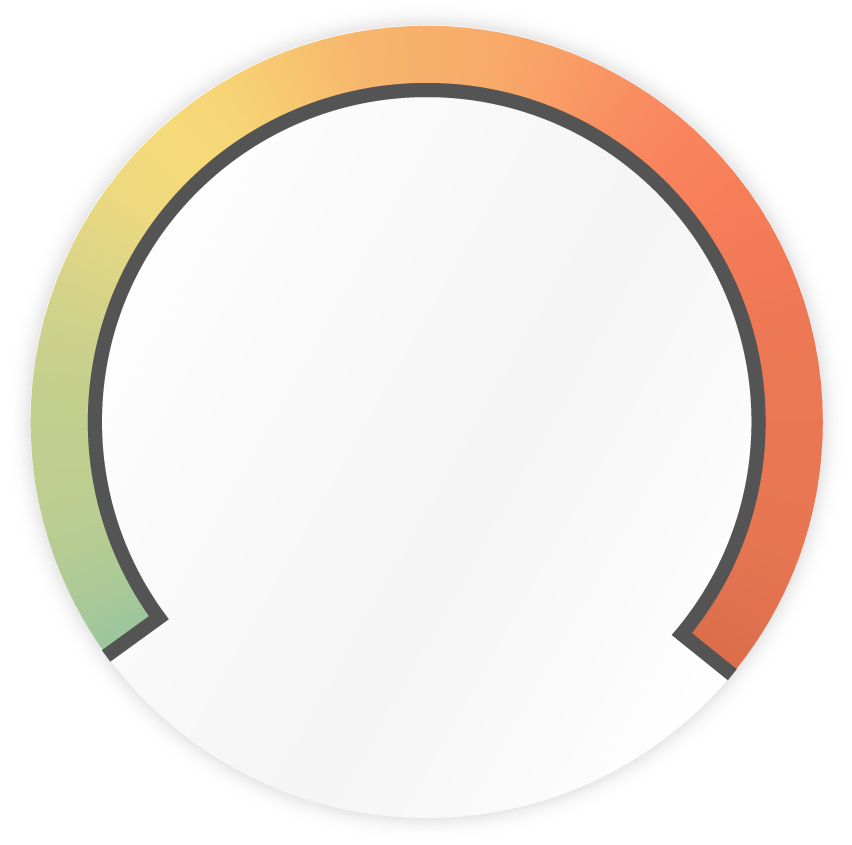
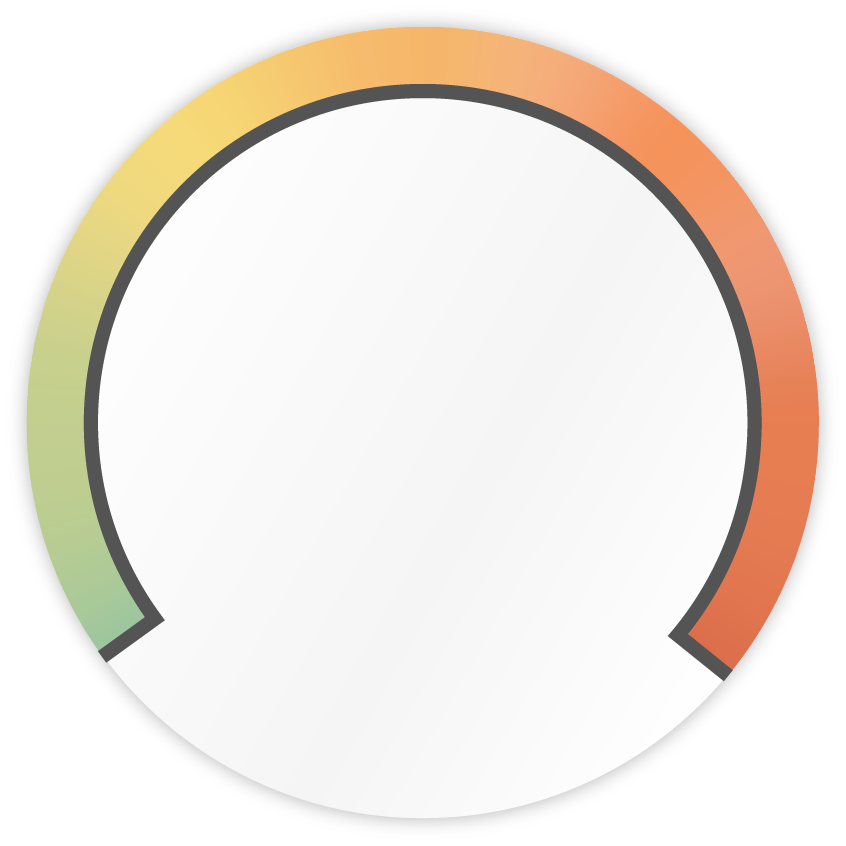
updated popover to take up almsot full height and width

diff --git a/src/app/home/components/popover/popover.component.html b/src/app/home/components/popover/popover.component.html
@@ -1,23 +1,43 @@
-<p>I am a special popover
-    and m Ipsum is simply dummy text of the printing and typesetting industry. Lorem Ipsum has been the industry's standard dummy text ever since the 1500s, when an unknown printer took a galley of type and scrambled it to make a type specimen book. It has survived not only five centuries, but also the leap into electronic typesetting, remaining essentially unchanged. It was popularised in the 1960s with the release of Letraset sheets containing Lorem Ipsum passages, and more recently with desktop publishing software like Aldus PageMaker including versions of Lorem Ipsum.
-    Why do we use it?
-    
-    It is a long established fact that a reader will be distracted by the readable content of a page when looking at its layout. The point of using Lorem Ipsum is that it has a more-or-less normal distribution of letters, as opposed to using 'Content here, content here', making it look like readable English. Many desktop publishing packages and web page editors now use Lorem Ipsum as their default model text, and a search for 'lorem ipsum' will uncover many web sites still in their infancy. Various versions have evolved over the years, sometimes by accident, sometimes on purpose (injected humour and the like).
-    
-    Where does it come from?
-    
-    Contrary to popular belief, Lorem Ipsum is not simply random text. It has roots in a piece of classical Latin literature from 45 BC, making it over 2000 years old. Richard McClintock, a Latin professor at Hampden-Sydney College in Virginia, looked up one of the more obscure Latin words, consectetur, from a Lorem Ipsum passage, and going through the cites of the word in classical literature, discovered the undoubtable source. Lorem Ipsum comes from sections 1.10.32 and 1.10.33 of "de Finibus Bonorum et Malorum" (The Extremes of Good and Evil) by Cicero, written in 45 BC. This book is a treatise on the theory of ethics, very popular during the Renaissance. The first line of Lorem Ipsum, "Lorem ipsum dolor sit amet..", comes from a line in section 1.10.32.
-    
+<div>
+  <p id="popover_title"> PM2.5 Fine Particles </p>
+
+</div>
+<!-- <p id="popover_text">
+    I am a special popover and m Ipsum is simply dummy text of the printing and typesetting industry. Lorem Ipsum has been the industry's standard dummy text ever since the 1500s, when an unknown printer took a galley of type and scrambled it to make a type specimen book. It has survived not only five centuries, but also the leap into electronic typesetting, remaining essentially unchanged. It was popularised in the 1960s with the release of Letraset sheets containing Lorem Ipsum passages, and more recently with desktop publishing software like Aldus PageMaker including versions of Lorem Ipsum. Why do we use it? It is a long established fact that a reader will be distracted by the readable content of a page when looking at its layout. The point of using Lorem Ipsum is that it has a more-or-less normal distribution of letters, as opposed to using 'Content here, content here', making it look like readable English. Many desktop publishing packages and web page editors now use Lorem Ipsum as their default model text, and a search for 'lorem ipsum' will uncover many web sites still in their infancy. Various versions have evolved over the years, sometimes by accident, sometimes on purpose (injected humour and the like). Where does it come from? Contrary to popular belief, Lorem Ipsum is not simply random text. It has roots in a piece of classical Latin literature from 45 BC, making it over 2000 years old. Richard McClintock, a Latin professor at Hampden-Sydney College in Virginia, looked up one of the more obscure Latin words, consectetur, from a Lorem Ipsum passage, and going through the cites of the word in classical literature, discovered the undoubtable source. Lorem Ipsum comes from sections 1.10.32 and 1.10.33 of "de Finibus Bonorum et Malorum" (The Extremes of Good and Evil) by Cicero, written in 45 BC. This book is a treatise on the theory of ethics, very popular during the Renaissance. The first line of Lorem Ipsum, "Lorem ipsum dolor sit amet..", comes from a line in section 1.10.32.
     The standard chunk of Lorem Ipsum used since the 1500s is reproduced below for those interested. Sections 1.10.32 and 1.10.33 from "de Finibus Bonorum et Malorum" by Cicero are also reproduced in their exact original form, accompanied by English versions from the 1914 translation by H. Rackham.
-    m Ipsum is simply dummy text of the printing and typesetting industry. Lorem Ipsum has been the industry's standard dummy text ever since the 1500s, when an unknown printer took a galley of type and scrambled it to make a type specimen book. It has survived not only five centuries, but also the leap into electronic typesetting, remaining essentially unchanged. It was popularised in the 1960s with the release of Letraset sheets containing Lorem Ipsum passages, and more recently with desktop publishing software like Aldus PageMaker including versions of Lorem Ipsum.
-Why do we use it?
+    m Ipsum is simply dummy text of the printing and typesetting industry. Lorem Ipsum has been the industry's standard dummy text ever since the 1500s, when an unknown printer took a galley of type and scrambled it to make a type specimen book. It has survived not only five centuries, but also the leap into electronic typesetting, remaining essentially unchanged. It was popularised in the 1960s with the release of Letraset sheets containing Lorem Ipsum passages, and more recently with desktop publishing software like Aldus PageMaker including versions of Lorem Ipsum. Why do we use it? It is a long established fact that a reader will be distracted by the readable content of a page when looking at its layout. The point of using Lorem Ipsum is that it has a more-or-less normal distribution of letters, as opposed to using 'Content here, content here', making it look like readable English. Many desktop publishing packages and web page editors now use Lorem Ipsum as their default model text, and a search for 'lorem ipsum' will uncover many web sites still in their infancy. Various versions have evolved over the years, sometimes by accident, sometimes on purpose (injected humour and the like). Where does it come from? Contrary to popular belief, Lorem Ipsum is not simply random text. It has roots in a piece of classical Latin literature from 45 BC, making it over 2000 years old. Richard McClintock, a Latin professor at Hampden-Sydney College in Virginia, looked up one of the more obscure Latin words, consectetur, from a Lorem Ipsum passage, and going through the cites of the word in classical literature, discovered the undoubtable source. Lorem Ipsum comes from sections 1.10.32 and 1.10.33 of "de Finibus Bonorum et Malorum" (The Extremes of Good and Evil) by Cicero, written in 45 BC. This book is a treatise on the theory of ethics, very popular during the Renaissance. The first line of Lorem Ipsum, "Lorem ipsum dolor sit amet..", comes from a line in section 1.10.32. The standard chunk of Lorem Ipsum used since the 1500s is reproduced below for those interested. Sections 1.10.32 and 1.10.33 from "de Finibus Bonorum et Malorum" by Cicero are also reproduced in their exact original form, accompanied by English versions from the 1914 translation by H. Rackham.
+</p> -->
 
-It is a long established fact that a reader will be distracted by the readable content of a page when looking at its layout. The point of using Lorem Ipsum is that it has a more-or-less normal distribution of letters, as opposed to using 'Content here, content here', making it look like readable English. Many desktop publishing packages and web page editors now use Lorem Ipsum as their default model text, and a search for 'lorem ipsum' will uncover many web sites still in their infancy. Various versions have evolved over the years, sometimes by accident, sometimes on purpose (injected humour and the like).
 
-Where does it come from?
+<ion-slides pager="true" [options]="slideOpts">
+    <ion-slide>
+        <div class="slide-wrapper">
+                <h1>Slide 1</h1>
+                <p>Hello there I am not your father</p>
 
-Contrary to popular belief, Lorem Ipsum is not simply random text. It has roots in a piece of classical Latin literature from 45 BC, making it over 2000 years old. Richard McClintock, a Latin professor at Hampden-Sydney College in Virginia, looked up one of the more obscure Latin words, consectetur, from a Lorem Ipsum passage, and going through the cites of the word in classical literature, discovered the undoubtable source. Lorem Ipsum comes from sections 1.10.32 and 1.10.33 of "de Finibus Bonorum et Malorum" (The Extremes of Good and Evil) by Cicero, written in 45 BC. This book is a treatise on the theory of ethics, very popular during the Renaissance. The first line of Lorem Ipsum, "Lorem ipsum dolor sit amet..", comes from a line in section 1.10.32.
+        </div>
+    </ion-slide>
+    <ion-slide>
+        <div>
+      <h1>Slide 2</h1>
+      <p>Hello there I am not your father</p>
+      <p>Hello there I am not your father</p>
 
-The standard chunk of Lorem Ipsum used since the 1500s is reproduced below for those interested. Sections 1.10.32 and 1.10.33 from "de Finibus Bonorum et Malorum" by Cicero are also reproduced in their exact original form, accompanied by English versions from the 1914 translation by H. Rackham.
+      <p>Hello there I am not your father</p>
+
+      <p>Hello there I am not your father</p>
+
+      <p>Hello there I am not your father</p>
+
+      <p>Hello there I am not your father</p>
+    </div>
+      
+    </ion-slide>
+    <ion-slide>
+            <div>
+                    <h1>Slide 1</h1>
+                    <p>Hello there I am not your father</p>
     
-</p>
+            </div>
+    </ion-slide>
+  </ion-slides>

diff --git a/src/app/home/components/linechart/linechart.component.ts b/src/app/home/components/linechart/linechart.component.ts
@@ -90,15 +90,15 @@ export class LineChart implements OnInit {
             const scale = 250/max;
             gradient.addColorStop(0, '#9bc69f');
             gradient.addColorStop(.25* scale, '#f6db7a');
-            gradient.addColorStop(.50* scale, '#fa845d');
+            gradient.addColorStop(.50* scale, '#F5935B');
             gradient.addColorStop(.75* scale, '#dc6e4c');
-            gradient.addColorStop(1*scale, '#ba7fc3');
+            gradient.addColorStop(1*scale, '#BA7FC3');
         } else {
             gradient.addColorStop(0, '#9bc69f'); // 0 - 50
             gradient.addColorStop(.25, '#f6db7a'); // 50 - 100
-            gradient.addColorStop(.50, '#fa845d'); // 100 - 150
+            gradient.addColorStop(.50, '#F5935B'); // 100 - 150
             gradient.addColorStop(.75, '#dc6e4c'); // 150 - 200
-            gradient.addColorStop(1, '#ba7fc3'); // 200
+            gradient.addColorStop(1, '#BA7FC3'); // 200
         }
         
         ctx.save();

diff --git a/src/app/home/components/pollutantList/pollutantList.component.ts b/src/app/home/components/pollutantList/pollutantList.component.ts
@@ -13,19 +13,27 @@ import { PollutantItem } from '../pollutantItem/pollutantItem.component';
 export class PollutantList {
     PM25 = {
       label:"PM2.5",
-      value:9
+      value:9,
+      status: "Hazardous",
+      unit: "ug/m^3"
     };
     PM10 = {
       label:"PM10",
-      value:43
+      value:43,
+      status: "Unhealthy for living",
+      unit: "ug/m^3"
     };
     O3 = {
       label:"O3",
-      value:9
+      value:9,
+      status: "Pretty Good",
+      unit: "ug/m^3"
     };
     NO2 = {
       label:"NO3",
-      value:9
+      value:9,
+      status: "Goodish",
+      unit: "ug/m^3"
     };
     constructor(){
         

diff --git a/src/app/home/components/pollutantItem/pollutantItem.component.ts b/src/app/home/components/pollutantItem/pollutantItem.component.ts
@@ -16,13 +16,13 @@ export class PollutantItem {
 
     }
     async presentPopover(ev: any) {
-      console.log("i got clicked")
-      const popover2 = await this.popoverController.create({
+      const popover = await this.popoverController.create({
         component: Popover,
-        cssClass: 'my-custom-class',
+        cssClass: 'module-popover2',
         event: ev,
-        translucent: true
+        translucent: false
       });
-      return await popover2.present();
+      popover.style.cssText = '--min-width: 90%; --max-width: 100%; --min-height: 90%; --max-height: 100%;';
+      return await popover.present();
     }
 }

diff --git a/src/app/home/components/pollutantItem/pollutantItem.component.html b/src/app/home/components/pollutantItem/pollutantItem.component.html
@@ -1,1 +1,12 @@
-<li (click)="presentPopover()">{{data.label}}<span>: <b>{{data.value}}</b></span></li>
+<li class="pollutantItemContainer" (click)="presentPopover()">
+    <!-- Item 1 -->
+    <div>
+        <p id="label">{{data.label}}</p>
+        <p>{{data.unit}}</p>
+    </div>
+    <!-- Item 2 -->
+    <div>
+        <p><b>{{data.value}}</b></p>
+        <p>{{data.status}}</p>
+    </div>
+</li>

diff --git a/src/app/home/components/popover/popover.component.css b/src/app/home/components/popover/popover.component.css
@@ -1,0 +1,21 @@
+#popover_title {
+    text-align: center;
+    font-size: 2rem;
+    margin-bottom: 0rem;
+}
+
+#popover_text {
+    padding-left: 1rem;
+    padding-right: 1rem;
+}
+
+.swiper-slide {
+    height: 100%;
+}
+
+.slide-wrapper {
+    display: flex;
+    justify-items: center;
+    flex-direction: column;
+    height: 100%;
+}

diff --git a/src/app/home/components/pollutantItem/pollutantItem.component.css b/src/app/home/components/pollutantItem/pollutantItem.component.css
@@ -1,5 +1,10 @@
-li {
+.pollutantItemContainer {
     padding:0.5em;
     margin-bottom: 1em;
-    background: purple ;
+    background: #9BC69F;
+    color: #555555;
+    height: 82px;
+    list-style: none;
+    display: flex;
+    justify-content: space-between;
 }

diff --git a/src/app/home/components/pollutantList/pollutantList.component.css b/src/app/home/components/pollutantList/pollutantList.component.css
@@ -1,0 +1,3 @@
+ul {
+    padding-left: 0;
+}
